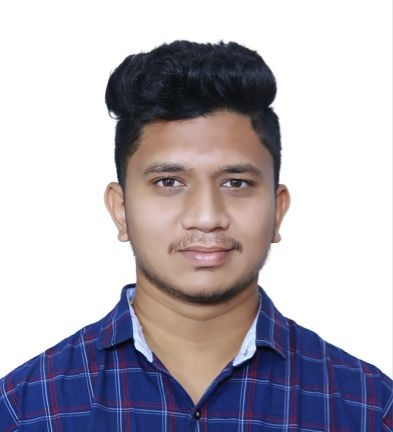
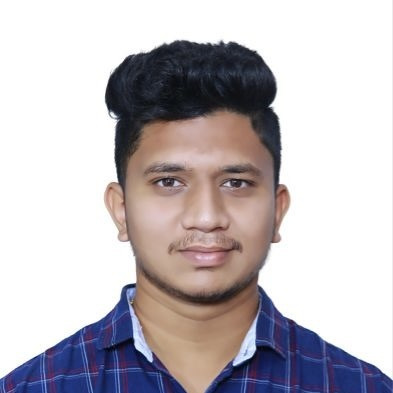
Images of Team are updated

Changed region(s): [[0.0, 0.0916, 1.0, 1.0], [0.3359, 0.1832, 0.3664, 0.2137]]

diff --git a/Readme.md b/Readme.md
@@ -76,33 +76,33 @@ By developing a smart travel app that provides real-time, location-based recomme
 
 ### Members
 
-<table style="max-width: 700px;  width: 700px; margin: 0 auto;">
+<table>
   <tr>
     <td style="text-align: center;">
-      <img src="./team_members/satya.JPG" width="240" alt="Satya Nandan Thota">
+      <img src="./team_members/satya.JPG" width="200" alt="Satya Nandan Thota">
     </td>
     <td style="text-align: center;">
-      <img src="./team_members/Ram.jpeg" width="200" height="150" alt="Sri Ramgopal Tandra"> 
+      <img src="./team_members/Ram.jpeg" width="200" alt="Sri Ramgopal Tandra"> 
     </td>
     <td style="text-align: center;">
-      <img src="./team_members/Vijay.jpeg" width="140" alt="Vijay Kumar Chelluboyana">
+      <img src="./team_members/Vijay.jpeg" width="200" alt="Vijay Kumar Chelluboyana">
     </td>
     <td style="text-align: center;">
-      <img src="./team_members/Bharath.jpeg" width="180" alt="Bharath Babu"> 
+      <img src="./team_members/Bharath.jpeg" width="200" alt="Bharath Babu"> 
     </td>
   </tr>
   <tr>
     <td style="text-align: center;">
-  <p style="font-size: 12px;"><strong>Satya Nandan Thota</strong></p>
+  <p style="font-size: 10px;"><strong>Satya Nandan Thota</strong></p>
 </td>
 <td style="text-align: center;">
-  <p style="font-size: 12px;"><strong>Sri Ramgopal Tandra</strong></p>
+  <p style="font-size: 10px;"><strong>Sri Ramgopal Tandra</strong></p>
 </td>
 <td style="text-align: center;">
-  <p style="font-size: 12px;"><strong>Vijay Kumar Chelluboyana</strong></p>
+  <p style="font-size: 10px;"><strong>Vijay Kumar Chelluboyana</strong></p>
 </td>
 <td style="text-align: center;">
-  <p style="font-size: 12px;"><strong>Bharath Babu</strong></p>
+  <p style="font-size: 10px;"><strong>Bharath Babu</strong></p>
 </td>
   </tr>
 </table>
